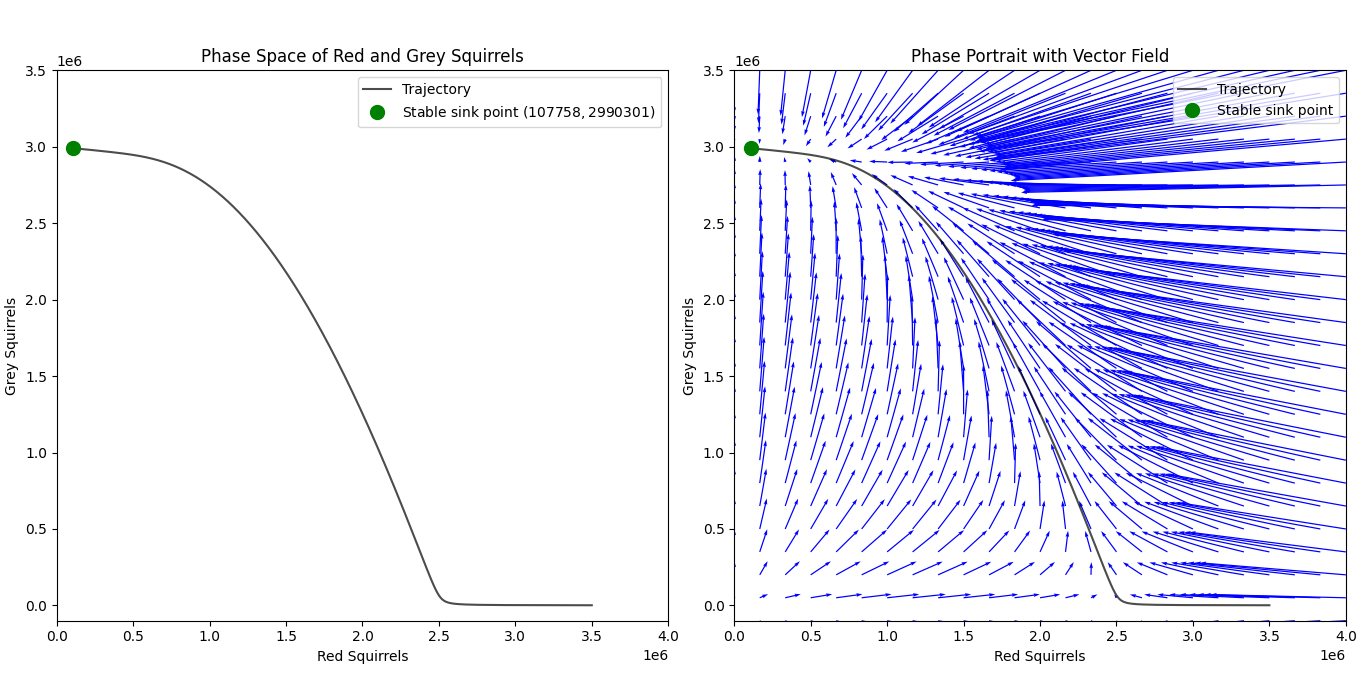
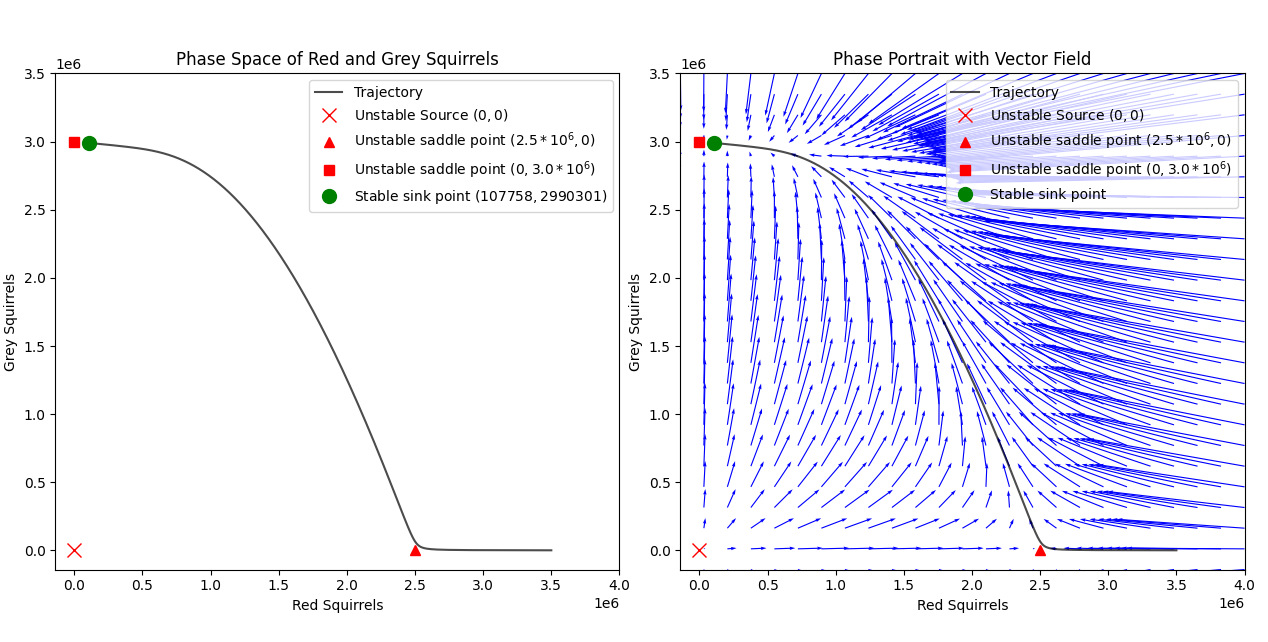
PhasePortraitUpdate

diff --git a/PythonScripts/LV_RK.py b/PythonScripts/LV_RK.py
@@ -73,8 +73,8 @@ V = Y * (r2 + a21 * X + a22 * Y)  # dy/dt
 
 # Add a new subplot for the phase portrait with vectors using quiver
 # Define a grid covering the entire trajectory range
-x_min, x_max = 0, 4e6  # Adjust based on trajectory data
-y_min, y_max = -0.1e6, 3.5e6
+x_min, x_max = -0.14e6, 4e6  # Adjust based on trajectory data
+y_min, y_max = -0.14e6, 3.5e6
 x_vals = np.linspace(x_min, x_max, 25)
 y_vals = np.linspace(y_min, y_max, 25)
 X, Y = np.meshgrid(x_vals, y_vals)
@@ -91,6 +91,9 @@ ax2.plot(u[0, :], u[1, :], label='Trajectory', color='black', alpha=0.7)
 ax2.set_xlabel('Red Squirrels')
 ax2.set_ylabel('Grey Squirrels')
 ax2.set_title('Phase Space of Red and Grey Squirrels')
+ax2.plot(0, 0 , 'rx', markersize=10, label='Unstable Source $(0, 0)$')
+ax2.plot(2.5*10**6, 0 , 'r^', markersize=7, label='Unstable saddle point $(2.5*10^6, 0)$')
+ax2.plot(0, 3.0*10**6 , 'rs', markersize=7, label='Unstable saddle point $(0, 3.0*10^6)$')
 ax2.plot(107758, 2990301, 'go', markersize=10, label='Stable sink point $(107758, 2990301)$')
 ax2.legend()
 ax2.set_xlim(x_min, x_max)  # Synchronize x-axis
@@ -104,6 +107,9 @@ ax3.quiver(X, Y, U, V, color='blue', angles='xy',
 ax3.set_xlabel('Red Squirrels')
 ax3.set_ylabel('Grey Squirrels')
 ax3.set_title('Phase Portrait with Vector Field')
+ax3.plot(0, 0 , 'rx', markersize=10, label='Unstable Source $(0, 0)$')
+ax3.plot(2.5*10**6, 0 , 'r^', markersize=7, label='Unstable saddle point $(2.5*10^6, 0)$')
+ax3.plot(0, 3.0*10**6 , 'rs', markersize=7, label='Unstable saddle point $(0, 3.0*10^6)$')
 ax3.plot(107758, 2990301, 'go', markersize=10, label='Stable sink point')
 ax3.set_xlim(x_min, x_max)  # Synchronize x-axis
 ax3.set_ylim(y_min, y_max)  # Synchronize y-axis
